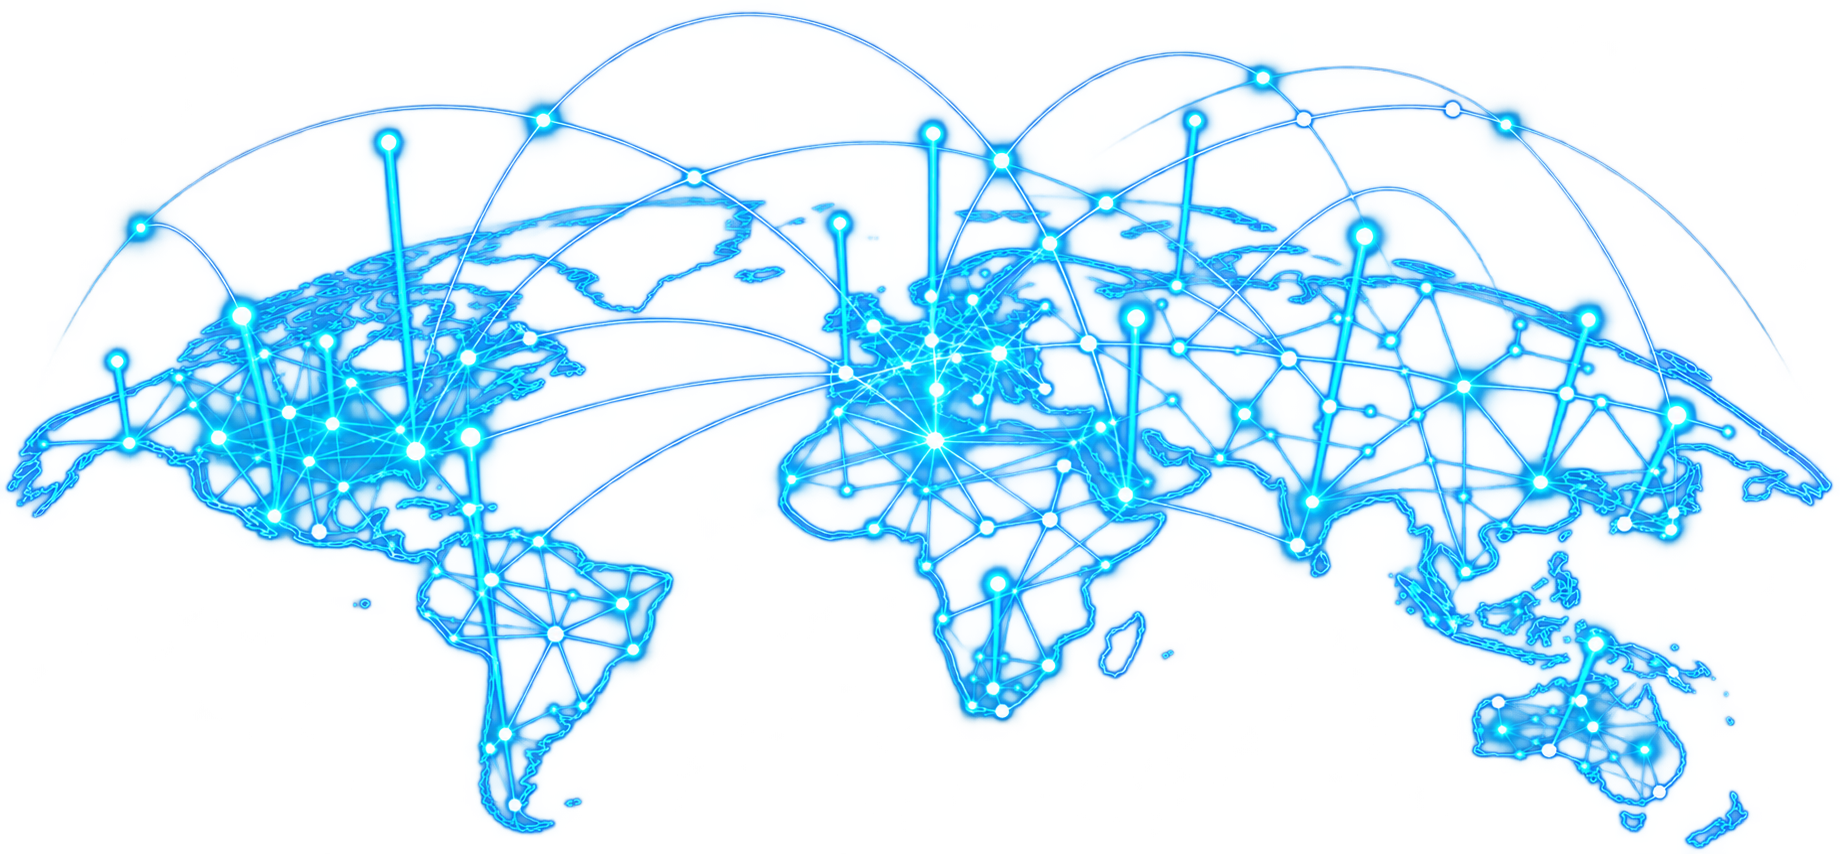
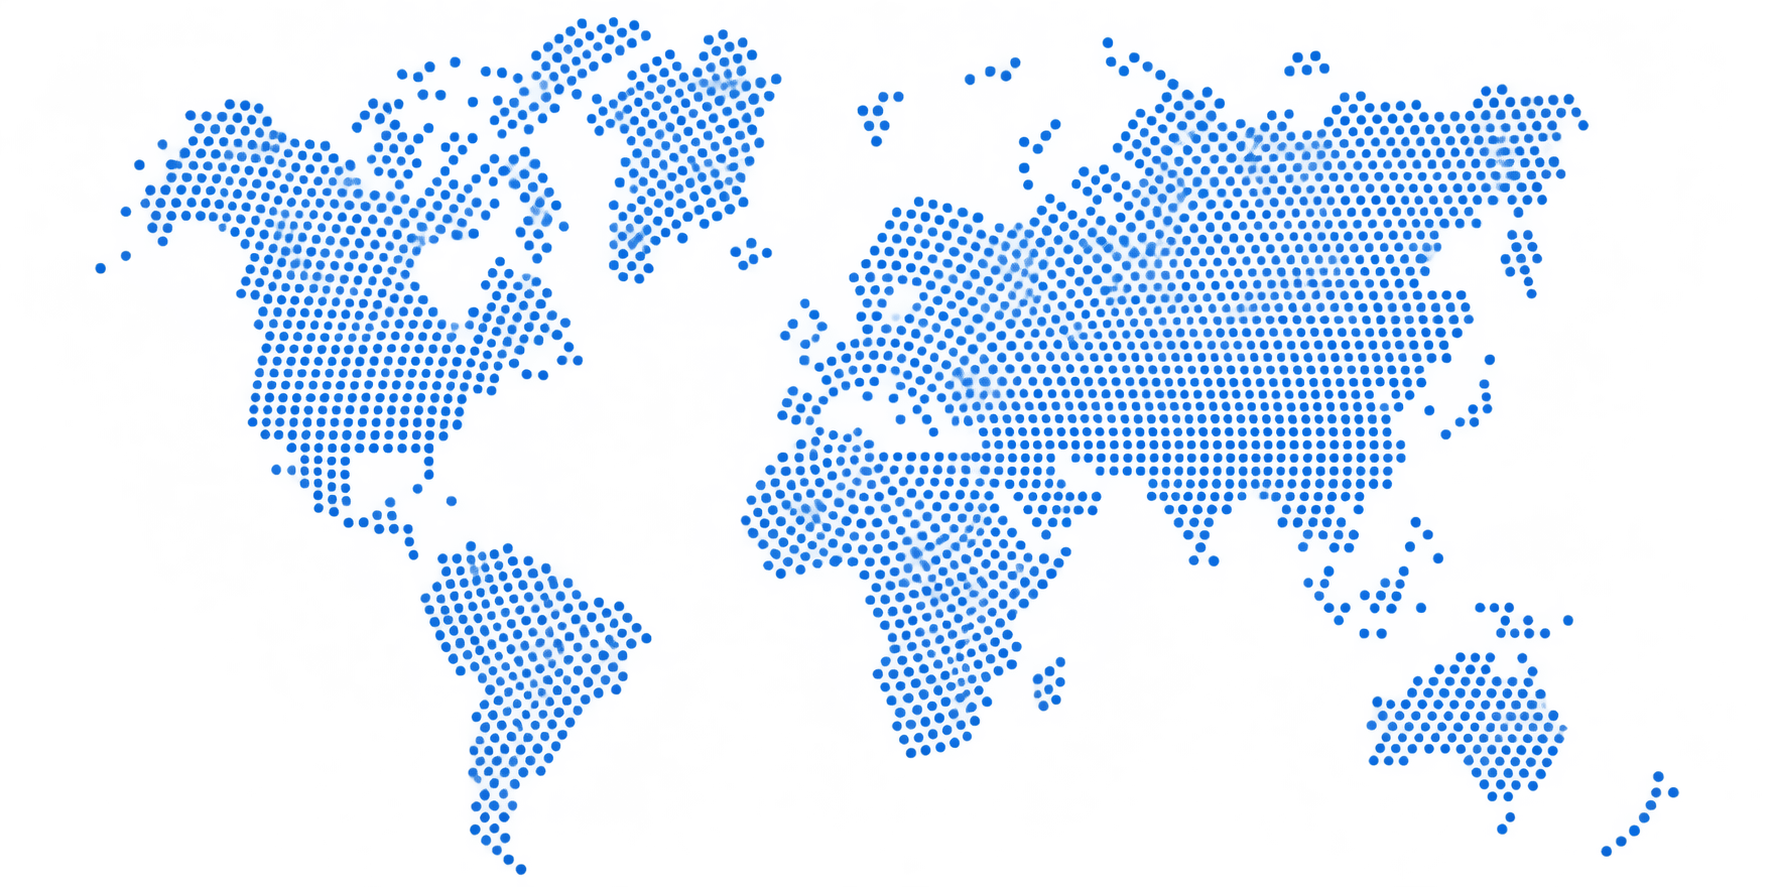
chanegs

diff --git a/style.css b/style.css
@@ -17,12 +17,12 @@ body {
   color: var(--deep-navy);
   background-color: var(--body-bg);
   background-image:
-    linear-gradient(rgba(238, 244, 247, 0.9), rgba(238, 244, 247, 0.9)),
+    linear-gradient(rgba(238, 244, 247, 0.936), rgba(238, 244, 247, 0.893)),
     url("./image/whole-bg.png");
   background-attachment: fixed;
-  background-position: center top;
+  background-position: center center;
   background-repeat: no-repeat;
-  background-size: cover;
+  background-size: contain;
   font-family: "Inter", "Avenir Next", Arial, Helvetica, sans-serif;
 }
 
@@ -442,7 +442,7 @@ body {
 
   line-height: 0.88;
 
-  font-weight: 600;
+  font-weight: 700;
 
   letter-spacing: -3px;
 
@@ -461,7 +461,18 @@ body {
 
   color: #092e59;
 }
+.hero-title-2 {
+  font-family: "Rajdhani", "Inter", Arial, Helvetica, sans-serif;
+  font-size: clamp(56px, 3vw, 86px);
 
+  line-height: 0.88;
+
+  font-weight: 600;
+
+  letter-spacing: -3px;
+
+  margin-bottom: 20px;
+}
 .hero-subtitle {
   font-family: "Rajdhani", "Inter", Arial, Helvetica, sans-serif;
 
@@ -595,6 +606,8 @@ body {
 
   font-size: 15px;
 
+  font-weight: 700;
+
   color: #092e59;
 }
 
@@ -606,6 +619,10 @@ body {
   gap: 10px;
 
   white-space: nowrap;
+}
+
+.event-item span {
+  font-weight: 700;
 }
 
 .event-icon {

diff --git a/index.html b/index.html
@@ -240,9 +240,9 @@
 
           <div class="hero-content">
             <div class="hero-label">Meridian Exchange</div>
-            <p class="hero-description mb-3">DATA EMBASSIES</p>
+            <p class="hero-title mb-3">DATA EMBASSIES</p>
 
-            <h1 class="hero-title">
+            <h1 class="hero-title-2">
               <span>Digital Sovereignty &</span>
               <span>Infrastructure Resilience</span>
             </h1>
